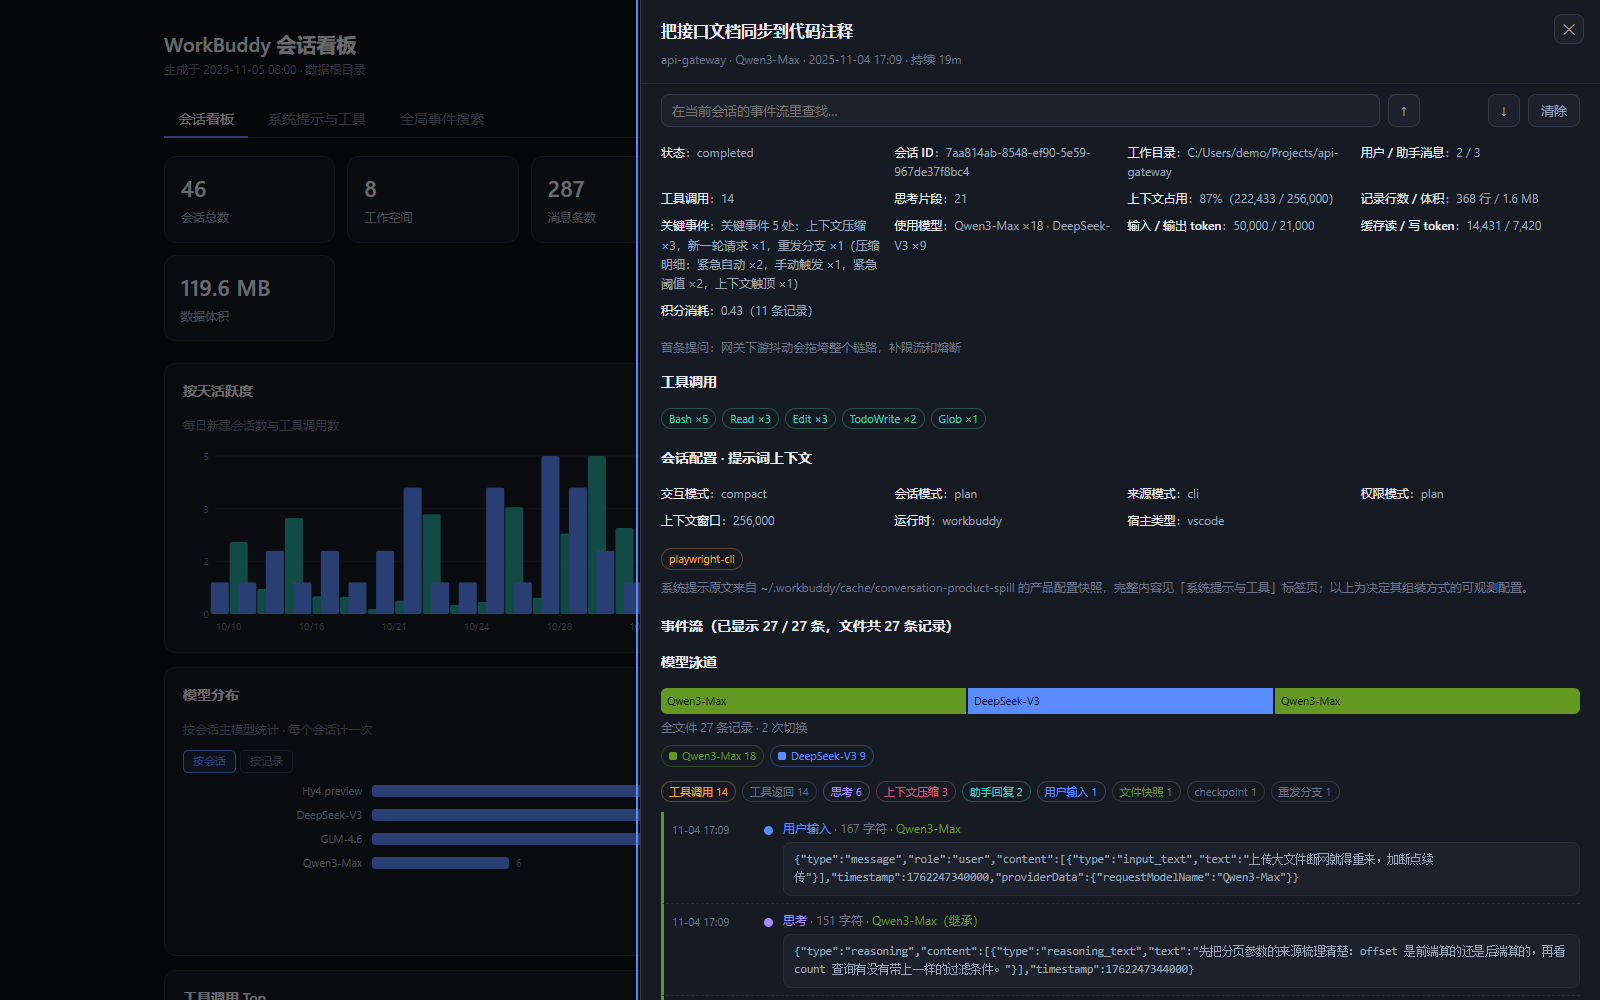
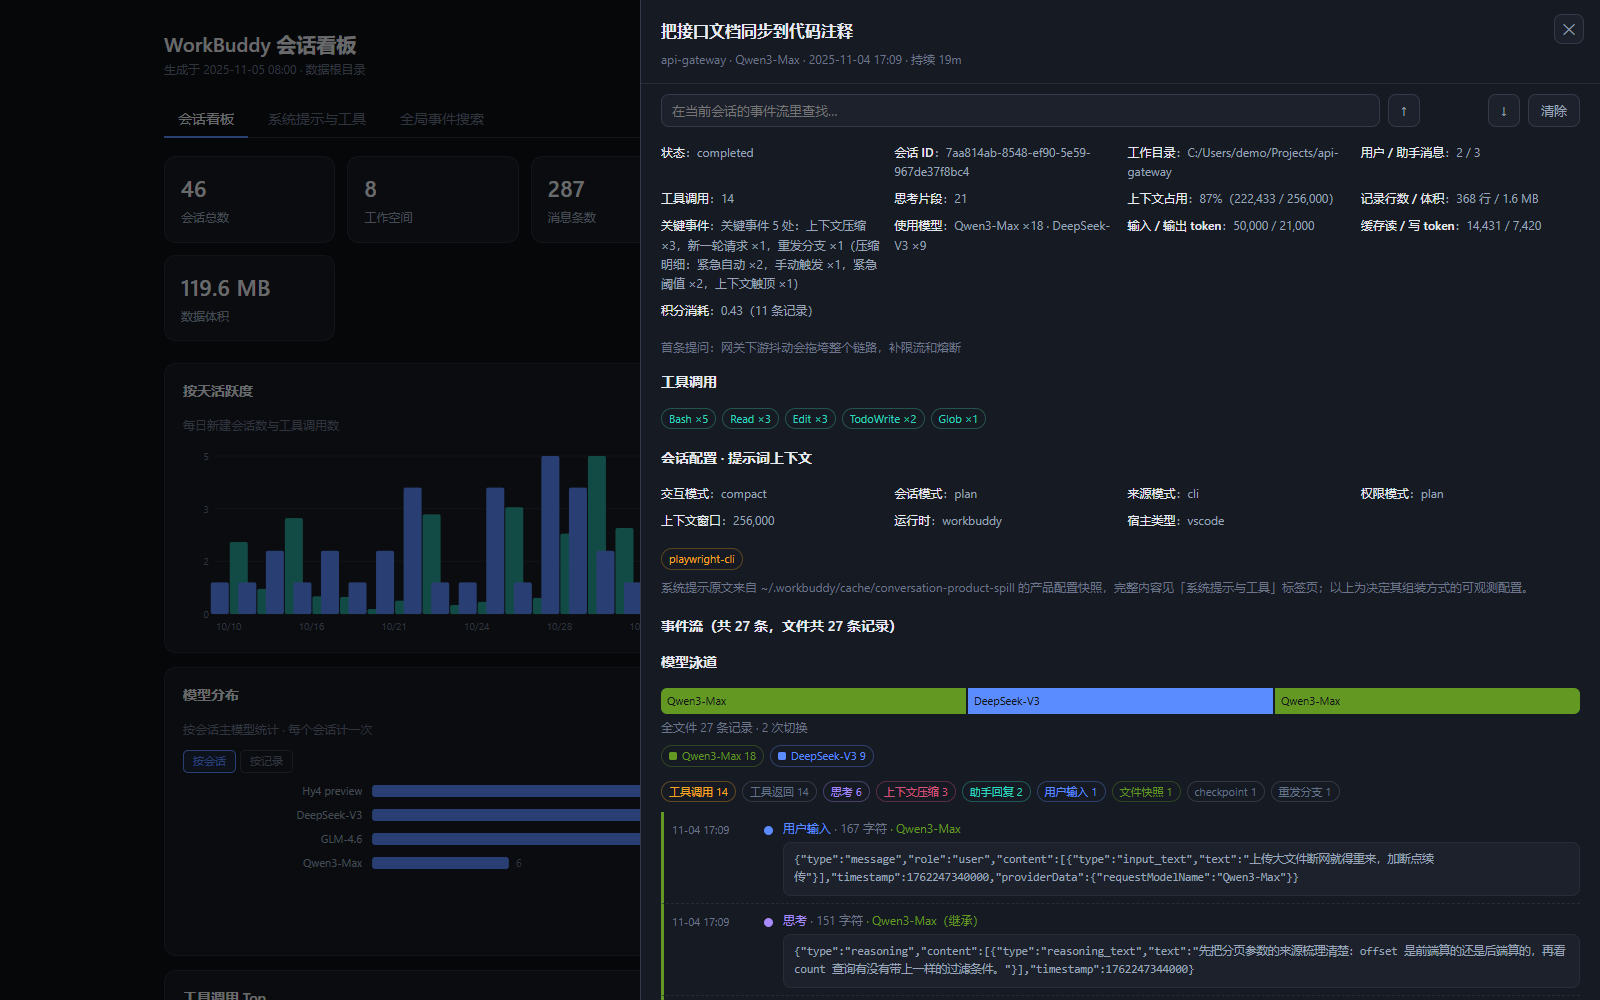
Ship session isolation and full event rendering
Rebuild index.html so same-named conversation files cannot bleed into each
other and every parsed event is shown without a paging button. Refresh the
guide and the session screenshot. Only that one image changed.

diff --git a/index.html b/index.html
@@ -502,7 +502,7 @@
  */
 
 /** @typedef {Object} ProductConfig configuration snapshot shown on the prompts tab */
-const DATA = {"root":"","deploy":true,"source":{"dbOk":false,"dbError":null,"indexedSessions":0,"workspaces":0,"jsonlFiles":0,"scanned":0},"sessions":[],"product":{"ok":false,"error":"部署版不含本地数据，请在页面顶部选中 ~/.workbuddy 目录","meta":{},"agents":[],"tools":[],"prompts":[],"subagents":[],"outputStyles":[],"models":[]},"generatedAt":1794228550017};
+const DATA = {"root":"","deploy":true,"source":{"dbOk":false,"dbError":null,"indexedSessions":0,"workspaces":0,"jsonlFiles":0,"scanned":0},"sessions":[],"product":{"ok":false,"error":"部署版不含本地数据，请在页面顶部选中 ~/.workbuddy 目录","meta":{},"agents":[],"tools":[],"prompts":[],"subagents":[],"outputStyles":[],"models":[]},"generatedAt":1794276023676};
 let S = DATA.sessions || [];
 const $ = id => document.getElementById(id);
 const fmtTime = ms => { const d = new Date(ms); const p = n => String(n).padStart(2,'0');
@@ -1344,8 +1344,8 @@ let cur = null;              // session currently shown in the drawer
 let hiddenKinds = new Set(); // event kinds the reader filtered out
 let hiddenModels = new Set(); // models the reader filtered out of the timeline
 let expandedKeys = new Set(); // stable ids of expanded raw records in this session
-const EV_STEP = 100;         // events rendered per page, and records pulled per re-parse
-let evShown = EV_STEP, evCurId = null;
+const EV_STEP = 100;         // records pulled per legacy resume step (no render paging)
+let evShown = Infinity, evCurId = null;  // every parsed event is rendered, no paging
 let evHitIndex = 0;          // which matching event is the current jump target
 let evScrollPending = false; // scroll on an explicit jump, not on every keystroke
 /* Resuming a parse inserts records and re-sorts the events, so array indexes
@@ -1556,8 +1556,8 @@ function eventRest(s, evCount){
 }
 function drawerEventTitleText(s, q, matched, shown, kinds, evCount){
   return q
-    ? '事件流（匹配 '+matched+' 条，已显示 '+shown+' 条）'
-    : '事件流（已显示 '+shown+' / '+matched+' 条'
+    ? '事件流（匹配 '+matched+' 条，全部显示）'
+    : '事件流（共 '+matched+' 条'
       +(kinds.length?('，文件共 '+(s.records||evCount)+' 条记录'):'')+'）';
 }
 function drawerEventActionsHtml(s, matched, shown, evCount){
@@ -1587,21 +1587,16 @@ function drawerEventActionsHtml(s, matched, shown, evCount){
  * swaps real rows back in just before they enter the viewport. Sessions with
  * fewer than EV_WINDOW_MIN candidates render exactly as before.
  */
-const EV_WINDOW_MIN = 500;
+const EV_WINDOW_MIN = 2000;
 const EV_WINDOW_MARGIN = 700;
 const EV_WINDOW_INITIAL = 80;    // rows materialised during the initial render
 const EV_ROW_DEFAULT_H = 64;     // height of an unmeasured placeholder
-const EV_WINDOW_MIN_BYTES = 512; // average record size that pays for the observer
-/** Windowing only pays off when rows are expensive to render; tiny records
-    are cheaper to keep in the DOM than to observe. */
+/** Ordinary sessions render every row at once (700 rows cost ~180 ms). Only a
+    very long stream needs placeholders: 30k rows take ~7 s in one shot. */
 function eventWindowNeeded(s, matched){
-  if(matched <= EV_WINDOW_MIN || typeof IntersectionObserver === 'undefined') return false;
-  const all = (s && s.events) || [];
-  let bytes = 0;
-  for(const e of all) if(e) bytes += e.size || 0;
-  return bytes / Math.max(1, all.length) > EV_WINDOW_MIN_BYTES;
+  return matched > EV_WINDOW_MIN && typeof IntersectionObserver !== 'undefined';
 }
-let evWindowCandidates = null, evWindowQ = '', evWindowObserver = null;
+let evWindowCandidates = null, evWindowQ = '', evWindowObserver = null, evWindowOwner = null;
 
 function setupEventWindowing(){
   if(evWindowObserver){ evWindowObserver.disconnect(); evWindowObserver = null; }
@@ -1610,6 +1605,8 @@ function setupEventWindowing(){
      || typeof IntersectionObserver === 'undefined') return;
   evWindowCandidates = drawerEventCandidates(cur, eventQuery());
   evWindowQ = eventQuery();
+  evWindowOwner = cur;
+  const owner = evWindowOwner;
   const slots = list.querySelectorAll('.ev-slot');
   if(!slots.length) return;
   // a search jump may target a row far outside the viewport; keep it real so
@@ -1624,6 +1621,9 @@ function setupEventWindowing(){
     }
   }
   evWindowObserver = new IntersectionObserver(entries=>{
+    // callbacks queued before a session switch must not fill the new session's
+    // slots with the old session's rows
+    if(cur !== owner) return;
     for(const entry of entries){
       const el = entry.target;
       const idx = Number(el.dataset && el.dataset.idx);
@@ -1773,7 +1773,7 @@ function openDrawer(id){
   // switching sessions is the only thing that should clear the reader's view
   if(cur !== s){
     expandedKeys.clear(); hiddenKinds.clear(); hiddenModels.clear();
-    evShown = EV_STEP; evHitIndex = 0;
+    evShown = Infinity; evHitIndex = 0;
     if($('ev-q')) $('ev-q').value = '';
   }
   cur = s; evCurId = id;
@@ -1954,6 +1954,15 @@ function learnMaskFromSessions(root, sessions){
 /* ---------- local file loading: read data.json straight from disk, no server ---------- */
 function applyPayload(d){
   S = d.sessions || [];
+  // snapshots can carry duplicate ids too; keep every row addressable
+  const seenIds = new Set();
+  for(const s of S){
+    if(!s) continue;
+    const base = String(s.id || 'session');
+    let id = base, suffix = 2;
+    while(seenIds.has(id)) id = base + '-' + (suffix++);
+    s.id = id; seenIds.add(id);
+  }
   if(d.product && (d.product.ok || (d.product.prompts||[]).length)) P = d.product;
   DATA.generatedAt = d.generatedAt || 0;
   DATA.root = d.root || '';
@@ -2992,7 +3001,12 @@ async function ingestOneFile(state, f, index){
     return;
   }
   try {
-    const name = String(f.name || '').replace(/\.jsonl$/i, '');
+    // Two workspaces can hold files with the same name. Row keys, timeline
+    // bars and openDrawer() all resolve a session by id, so a duplicate would
+    // open the wrong conversation and make two chats appear to bleed into one.
+    const baseName = String(f.name || '').replace(/\.jsonl$/i, '');
+    let name = baseName, suffix = 2;
+    while(S.some(x => x && x.id === name)) name = baseName + '-' + (suffix++);
     const cache = {};
     const s = await jsParseAsync(txt, name, fileLabel(f), f.size || txt.length, state.budget,
       FULL_SESSION_PARSE_OPTIONS,
@@ -3209,7 +3223,7 @@ function closeDrawer(){
 $('d-close').onclick = closeDrawer;
 /* the event-stream search field is static, so a repaint cannot steal its focus */
 function refreshEventSearch(){
-  evShown = EV_STEP;
+  evShown = Infinity;
   evHitIndex = 0;
   if(cur) openDrawer(cur.id);
 }

diff --git a/README.md b/README.md
@@ -61,7 +61,7 @@ File API 完成，刷新页面即回到无数据状态。
 输入防抖与结果缓存，达到上限时会明确提示而不是静默截断；结果满 200 条即停止扫描。
 扫描量按 UTF-16 字符计，不是磁盘字节。每个会话在载入时就已**一次解析完全部记录**，
 没有「只解析了一部分」的状态，也不需要点「从文件继续解析」再读一次文件；
-事件流本身用分页与窗口化保持流畅，往后读点「显示更多已解析事件」即可。
+事件流默认一次显示全部事件、不分页不折叠。
 
 **关键事件会被统一标出来**：对真实会话数据做了一次全量取证（约 8.1 万条记录），
 把「稀有、语义重要、可结构化识别」的记录归为一类，共用同一套突出机制——
@@ -123,14 +123,12 @@ CSV 带 UTF-8 BOM，Excel 可直接打开；Markdown 适合贴进笔记或仓库
 `Enter` / `Space` 激活，`Esc` 关闭详情面板并把焦点还给打开它的位置；详情面板以
 `role="dialog"` 标记，打开时焦点移入、关闭时恢复，且有独立的关闭按钮。
 
-事件流有两层「更多」，含义不同：
-- 「**显示更多已解析事件**」只翻页当前已经载入内存的记录，不读磁盘。
-- 「**从文件继续解析**」把首轮 210 条之后的记录追加进来；括号内是精确剩余条数。
-  首次解析其实已经读完整个文件并算完全部统计，只是没有为超出上限的记录生成事件，
-  因此页面会缓存行文本和这些记录的索引，续解析**不再重新读取或重新扫描会话文件**
-  （实测 2 万行 / 3.5 MB 的会话连点 5 次，CPU 从 228 ms 降到 6 ms）。
-  没有时间戳的记录会照常保留、标注「时间未知」，不会被误算成「还没解析」。
-  翻页或续解析时，已经展开的 JSON 与已隐藏的事件类型会保持原样，只有切换到另一个会话才重置。
+事件流一次显示该会话的全部已解析事件，不再有「显示更多已解析事件」或
+「从文件继续解析」两层按钮：载入时就把文件里每条记录都生成事件，无需再点任何东西。
+700 行一次渲染约 180 ms；超过 2000 行时改用按需渲染（滚动到哪、哪里的行即时出现），
+避免 3 万行一次性构建把页面卡住。
+没有时间戳的记录会照常保留、标注「时间未知」。
+同一会话内重绘时，已经展开的 JSON 与已隐藏的事件类型保持原样，只有切换到另一个会话才重置。
 
 > 「会话状态」「上下文占用」这类字段只存在于 `workbuddy.db`，浏览器模式不读数据库，因此显示为「—」；
 > 详情面板会改用请求里带的 `prompt_tokens` 峰值，补一行「输入 token 峰值」。
@@ -227,7 +225,7 @@ CSV 带 UTF-8 BOM，Excel 可直接打开；Markdown 适合贴进笔记或仓库
 ## 开发验证
 
 以下五套工具只保存在本地开发副本里，公开仓库不含它们；模板改动后应全部跑通。
-三引擎齐备时真实浏览器用例为 **Chromium / Firefox / WebKit 各 141 项，共 423 项**，
+三引擎齐备时真实浏览器用例为 **Chromium / Firefox / WebKit 各 143 项，共 429 项**，
 任一引擎缺失会直接判失败而不是静默跳过：
 
 - `node smoke-test.js`：模板语法、静态隐私扫描、纯逻辑与渲染字符串断言（Node VM + DOM 桩）
